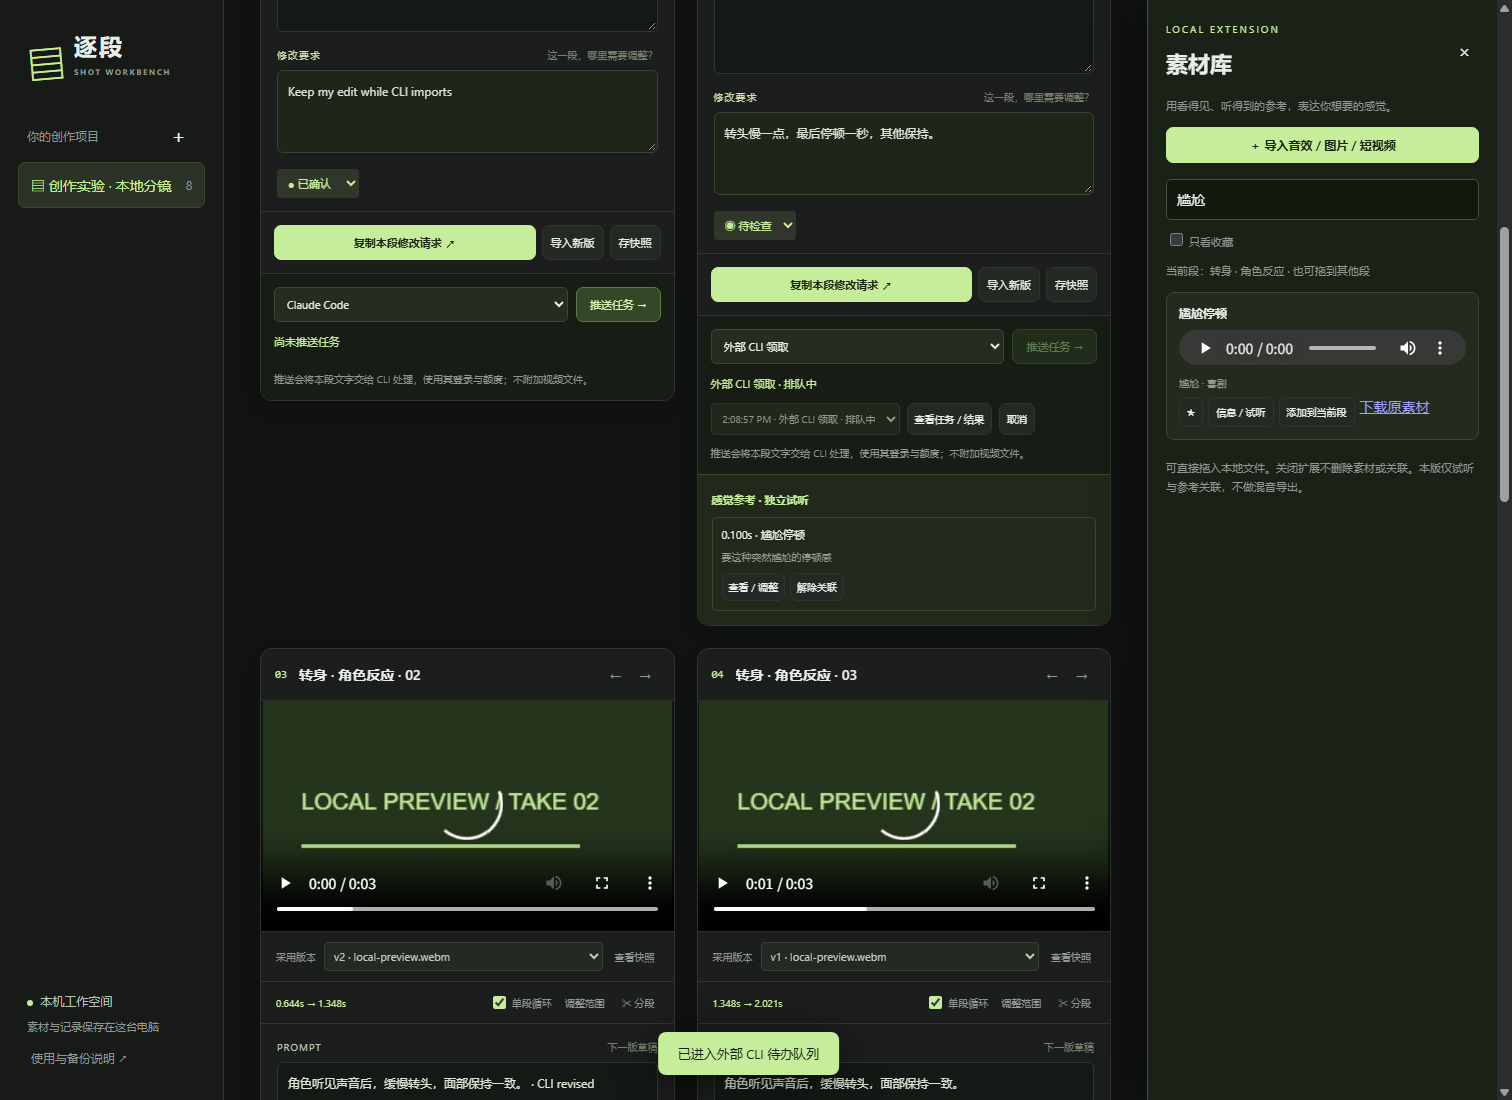
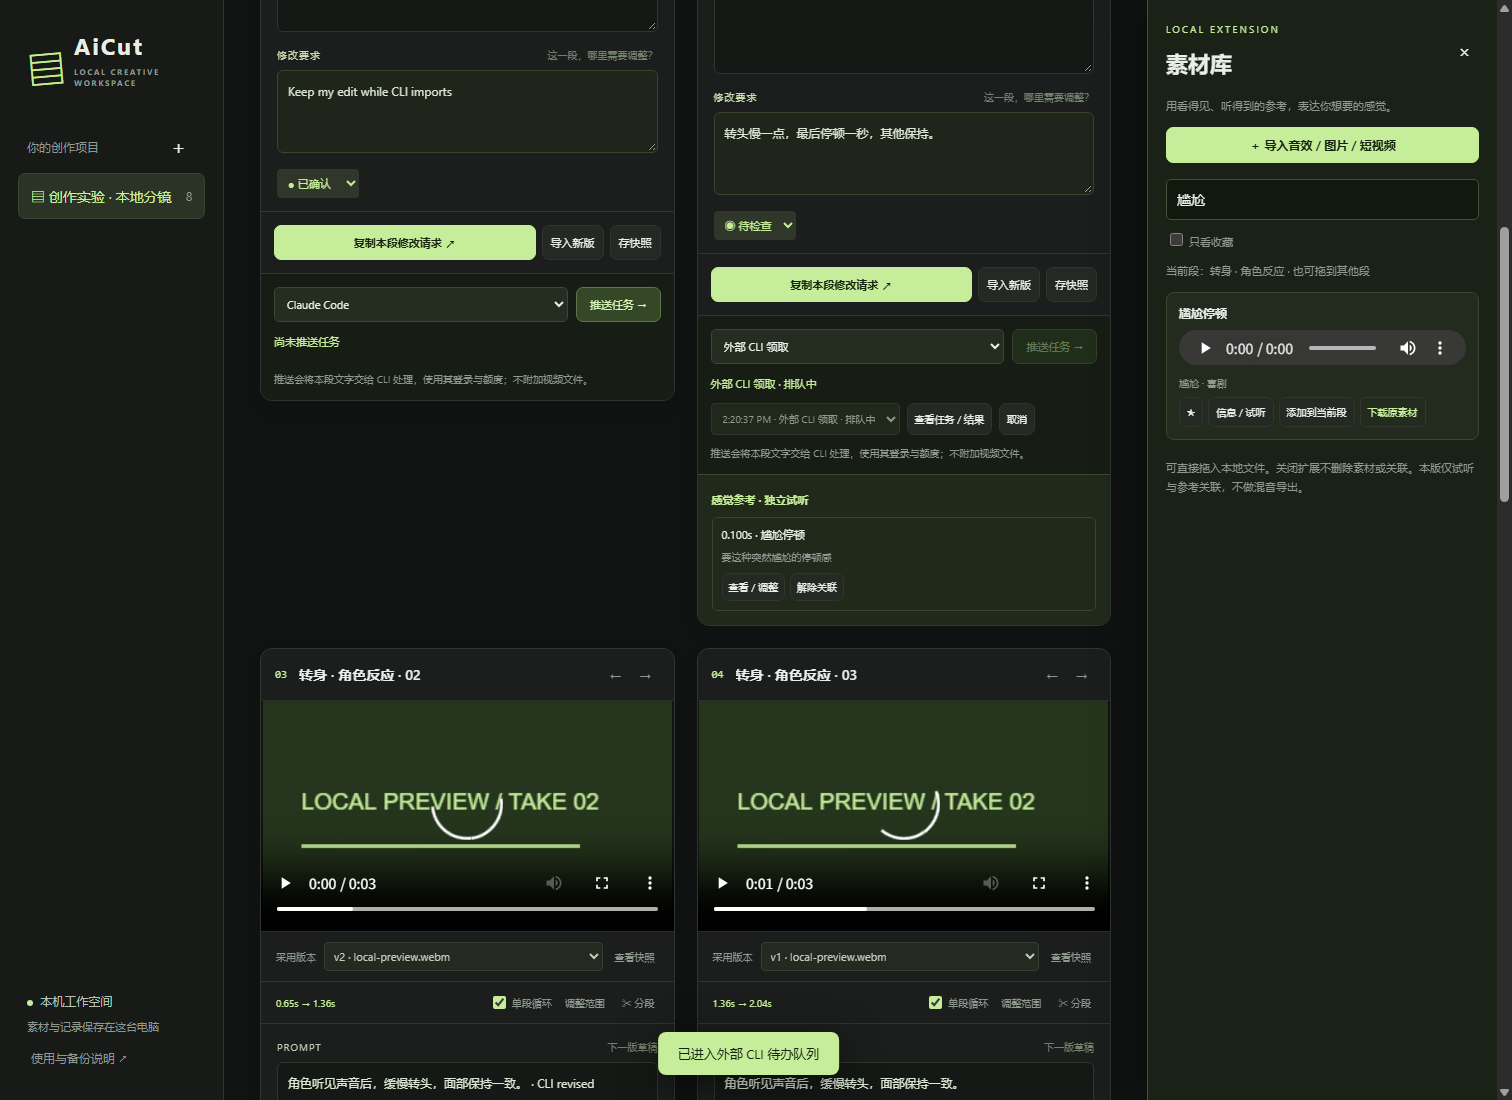
Rebrand Shot Workbench as AiCut

diff --git a/public/app.js b/public/app.js
@@ -218,7 +218,7 @@ $('#export').addEventListener('click', () => action(async () => {
   const link = document.createElement('a'); link.href = url; link.download = 'shot-revisions.md'; link.click(); setTimeout(() => URL.revokeObjectURL(url), 1000);
   toast('已导出文字清单；素材备份请看使用说明');
 }));
-$('#help').addEventListener('click', () => textDialog('本地使用与备份', `1. 添加片段：可以先写文字，也可以一次导入多个视频／图片。\n2. 编辑 Prompt 和修改要求：停止输入约 0.65 秒后保存。顶部会提示保存状态。\n3. 复制本段修改请求：包含项目、片段、采用版本、当前草稿和修改要求。\n4. 导入新版：为当前草稿保存一个带素材的只读版本，旧版继续保留。\n5. 存快照：为当前文字存一个不带素材的版本。\n6. 选择采用版本：只切换预览，不覆盖下一版草稿。\n7. 视频卡片点 ✂ 分段：均分或在播放位置添加边界，各段共用原文件。调整范围存新版；单段循环可取消。目前不导出独立剪辑文件。\n\n数据位置：项目目录下 data/（SQLite 数据库与 media/ 素材）。\n备份：在项目目录运行 npm run backup。备份写入 backups/ 的时间戳目录。\n恢复：先停止服务，再把完整备份目录复制为一个新的数据目录，用 SHOT_DATA_DIR 指向它。不要只恢复 SQLite 文件。\n\n导出修改清单仅导出文字，不包含素材，不能替代完整备份。\n支持 MP4、WebM、MOV、PNG、JPG、WebP；视频能否播放取决于浏览器编码支持。\n只在本机运行，不需要账号、API Key 或联网。`, '逐段 v0.2 · 本地分段工作台'));
+$('#help').addEventListener('click', () => textDialog('本地使用与备份', `1. 添加片段：可以先写文字，也可以一次导入多个视频／图片。\n2. 编辑 Prompt 和修改要求：停止输入约 0.65 秒后保存。顶部会提示保存状态。\n3. 复制本段修改请求：包含项目、片段、采用版本、当前草稿和修改要求。\n4. 导入新版：为当前草稿保存一个带素材的只读版本，旧版继续保留。\n5. 存快照：为当前文字存一个不带素材的版本。\n6. 选择采用版本：只切换预览，不覆盖下一版草稿。\n7. 视频卡片点 ✂ 分段：均分或在播放位置添加边界，各段共用原文件。调整范围存新版；单段循环可取消。目前不导出独立剪辑文件。\n\n数据位置：项目目录下 data/（SQLite 数据库与 media/ 素材）。\n备份：在项目目录运行 npm run backup。备份写入 backups/ 的时间戳目录。\n恢复：先停止服务，再把完整备份目录复制为一个新的数据目录，用 SHOT_DATA_DIR 指向它。不要只恢复 SQLite 文件。\n\n导出修改清单仅导出文字，不包含素材，不能替代完整备份。\n支持 MP4、WebM、MOV、PNG、JPG、WebP；视频能否播放取决于浏览器编码支持。\n核心管理可离线使用；可选 CLI 作业使用其订阅账号与网络连接。`, 'AiCut v0.5.1 · 本地分段创作工作台'));
 window.addEventListener('beforeunload', event => {
   if ([...edits.values()].some(e => e.saved < e.seq || e.running) || busy) { event.preventDefault(); event.returnValue = ''; }
 });

diff --git a/public/index.html b/public/index.html
@@ -3,8 +3,8 @@
 <head>
   <meta charset="UTF-8">
   <meta name="viewport" content="width=device-width,initial-scale=1">
-  <meta name="description" content="本地分段素材、Prompt 与修改记录工作台">
-  <title>逐段 · Shot Workbench</title>
+  <meta name="description" content="AiCut：本地视频分段、Prompt 微调与素材参考工作台">
+  <title>AiCut · 本地分段创作工作台</title>
   <link rel="stylesheet" href="/style.css">
   <link rel="stylesheet" href="/segments.css">
   <link rel="stylesheet" href="/jobs.css">
@@ -13,7 +13,7 @@
 </head>
 <body>
   <aside class="sidebar">
-    <div class="brand"><span class="brand-mark">▤</span><div>逐段<span class="brand-en">SHOT WORKBENCH</span></div></div>
+    <div class="brand"><span class="brand-mark">▤</span><div>AiCut<span class="brand-en">LOCAL CREATIVE WORKSPACE</span></div></div>
     <div class="sidebar-caption">你的创作项目 <button id="new-project" class="icon" title="新建项目" aria-label="新建项目">＋</button></div>
     <nav id="projects" aria-label="项目列表"></nav>
     <div class="sidebar-bottom"><span class="local-dot"></span> 本机工作空间<div>素材与记录保存在这台电脑</div><button id="help" class="text-button">使用与备份说明 ↗</button></div>

diff --git a/README.md b/README.md
@@ -1,12 +1,12 @@
-# Shot Workbench · 逐段
+# AiCut
 
 **Keep every shot, prompt and revision together — on your own computer.**
 
 English | [简体中文](README.zh-CN.md)
 
-Shot Workbench is a small local workspace for creators who generate content in other tools. Organize clips or text into shot cards, write a prompt and revision notes under each one, copy the complete request into your preferred tool, then import the next take.
+AiCut is a small local workspace for creators who generate content in other tools. Organize clips or text into shot cards, write a prompt and revision notes under each one, copy the complete request into your preferred tool, then import the next take.
 
-The core workspace needs no AI API, account, cloud upload or npm dependencies. Optional CLI tasks use your installed, subscription-signed-in Claude Code or Codex CLI and send that shot's text to its provider. The current interface is in Simplified Chinese. This is an early `v0.5.0` implementation; production workflows still need testing.
+The core workspace needs no AI API, account, cloud upload or npm dependencies. Optional CLI tasks use your installed, subscription-signed-in Claude Code or Codex CLI and send that shot's text to its provider. The current interface is in Simplified Chinese. This is an early `v0.5.1` implementation; production workflows still need testing.
 
 ![Shot cards with prompts, revision notes and take selection. All content is synthetic test data.](docs/images/workbench.png)
 
@@ -39,7 +39,7 @@ On Windows, you can also double-click `start.cmd`. In PowerShell, use `npm.cmd s
 1. Create a project (新建项目) and add a shot (添加片段).
 2. Fill in **Prompt** and **修改要求** (revision request).
 3. Click **复制本段修改请求** to copy the context into the tool you already use.
-4. Generate or edit content outside Shot Workbench.
+4. Generate or edit content outside AiCut.
 5. Click **导入新版** to attach the result as a new take. The previous take remains available.
 
 You can also import several files to create one shot per file.

diff --git a/README.zh-CN.md b/README.zh-CN.md
@@ -1,8 +1,8 @@
-# 逐段 · Shot Workbench
+# AiCut · 本地分段创作工作台
 
 [English](README.md) | 简体中文
 
-本地运行的分段素材与修改工作台，版本 `0.5.0`。
+本地运行的分段素材与修改工作台，版本 `0.5.1`。
 
 每个片段保存 Prompt 草稿、修改要求、状态和带历史文字快照的素材版本。可以复制请求到外部工具，也可选择本机已登录的 Claude Code／Codex CLI 推送文字修改任务。核心工作台可离线使用；CLI 作业会发送本段文字并消耗对应订阅额度，不接模型 API Key。
 
@@ -53,7 +53,7 @@ npm.cmd start
 ## 数据与备份
 
 ```text
-ShotWorkbench/
+AiCut/
   data/
     workbench.sqlite       项目、片段、草稿、历史快照、素材索引
     workbench.sqlite-wal   SQLite 运行时文件，可能存在

diff --git a/.github/ABOUT.md b/.github/ABOUT.md
@@ -1,0 +1,21 @@
+# GitHub repository metadata
+
+Product name: **AiCut**
+
+Repository name: `AiCut`
+
+Description:
+
+```text
+Local workspace for video segments, prompt revisions, Claude Code/Codex CLI tasks, and reusable sound & meme references. No model API required.
+```
+
+Topics:
+
+```text
+aicut, video-workflow, storyboard, local-first, prompt-management, claude-code, codex-cli, sound-effects, meme-library, sqlite
+```
+
+Website: leave empty; AiCut runs locally and has no hosted demo.
+
+These are the intended repository settings. This file documents them; GitHub does not apply About metadata from this file automatically.

diff --git a/CONTRIBUTING.md b/CONTRIBUTING.md
@@ -1,6 +1,6 @@
 # Contributing
 
-Shot Workbench is an early local-first application. Small fixes, usability improvements, accessibility and documentation contributions are welcome.
+AiCut is an early local-first application. Small fixes, usability improvements, accessibility and documentation contributions are welcome.
 
 ## Get started
 

diff --git a/AGENTS.md b/AGENTS.md
@@ -1,4 +1,4 @@
-# Working with Shot Workbench
+# Working with AiCut
 
 This is a local Node.js 24+ application. Follow the parent/global policy applicable to your workspace. Read CLI_BRIDGE.md before controlling the workspace from an agent.
 
